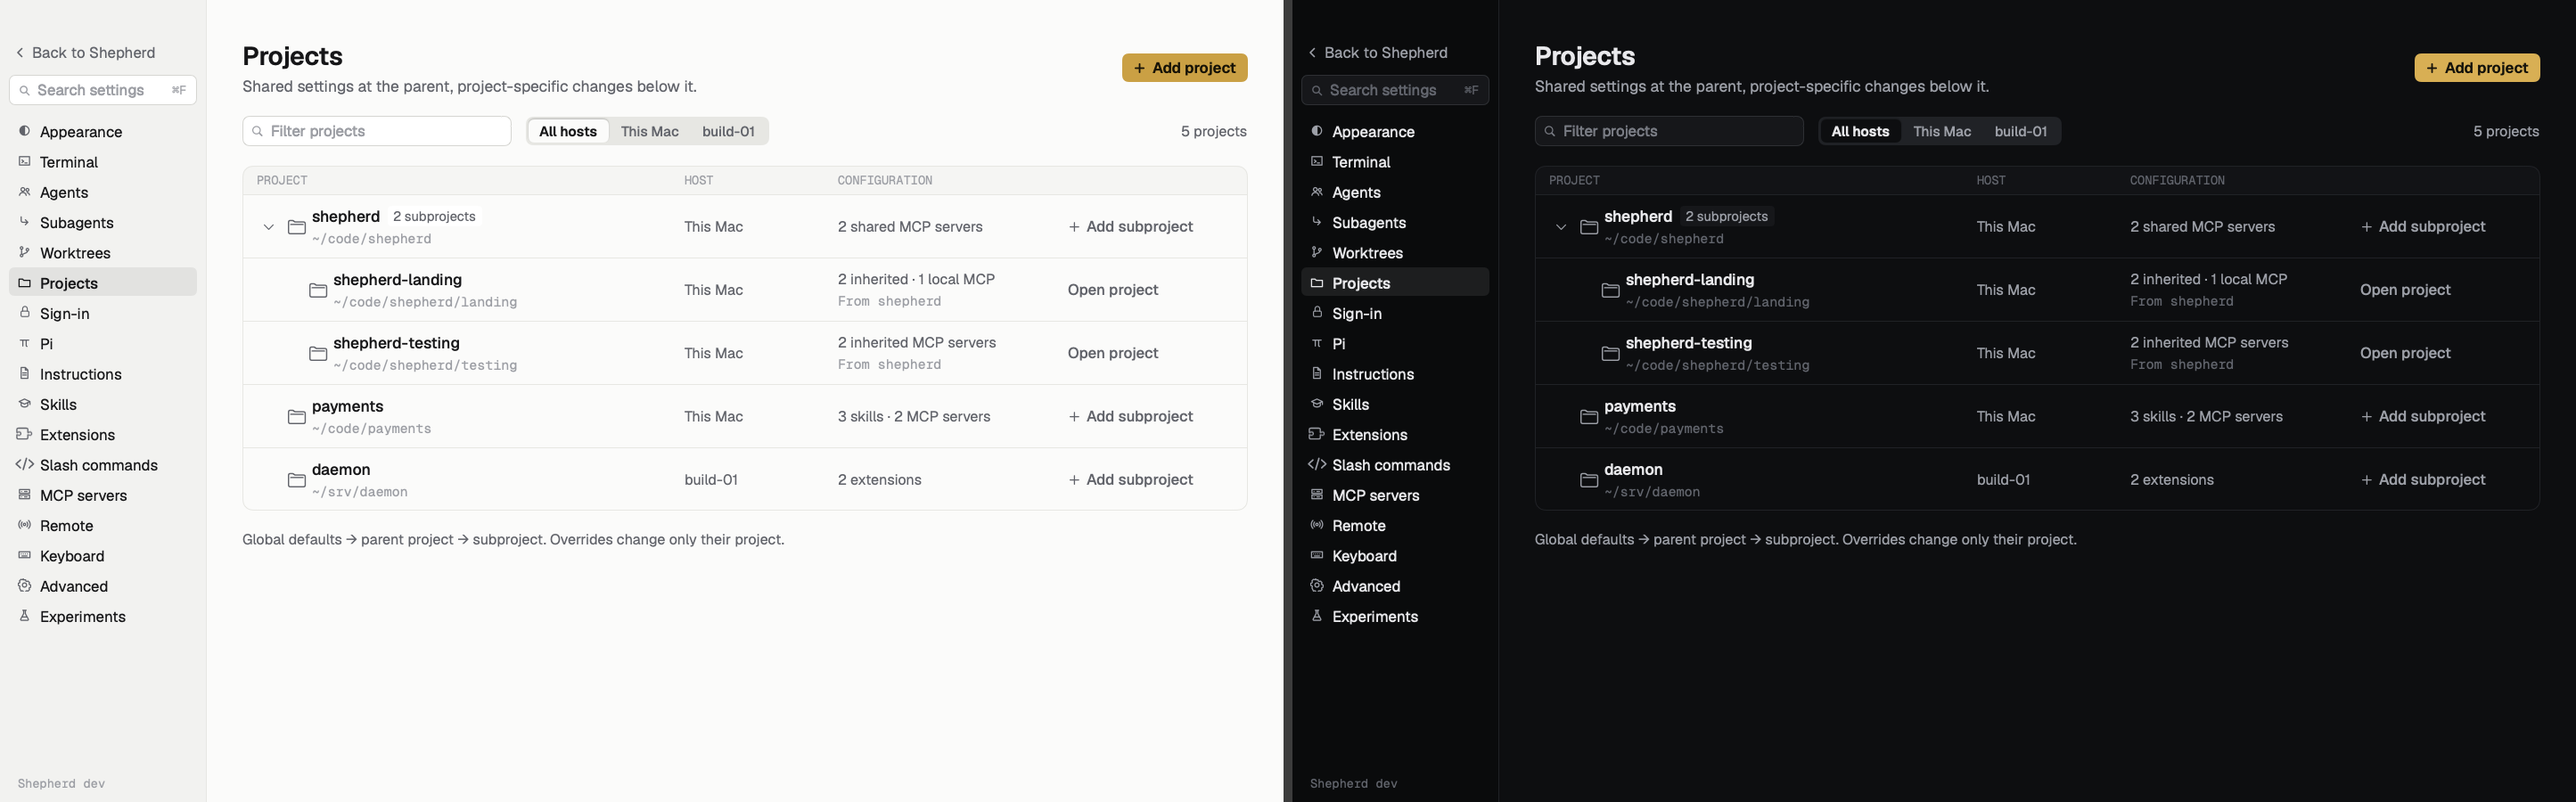
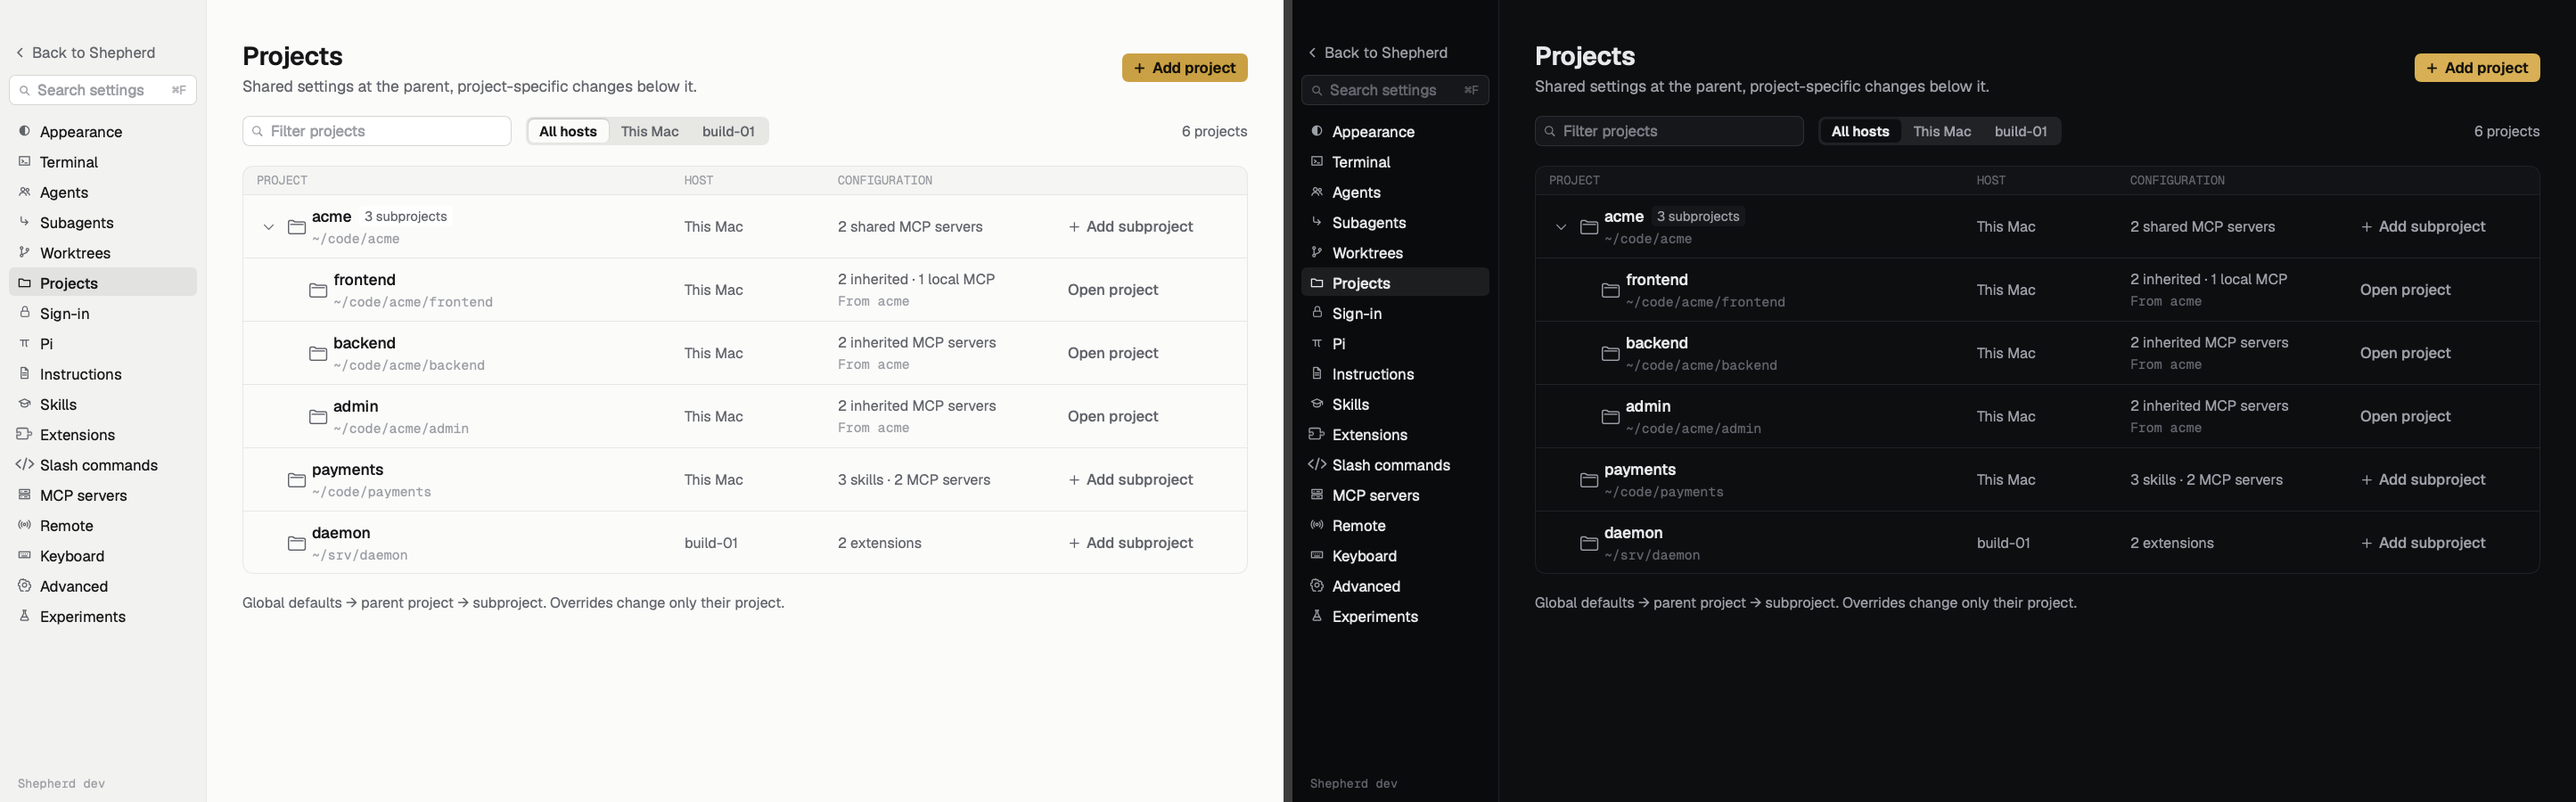
test: render subprojects as projects added inside acme's folder

diff --git a/Tests/ShepherdPreviewTests/ProjectsPreviewTests.swift b/Tests/ShepherdPreviewTests/ProjectsPreviewTests.swift
@@ -42,30 +42,33 @@ struct ProjectsPreviewTests {
         try await Preview.renderMatrix("projects-\(state)", size: size) { RootView(vm: world.vm) }
     }
 
-    /// The board's tree (SettingsProjects, parents and subprojects): shepherd with its two
-    /// subprojects inside its folder, which share its two MCP servers (one adds its own), then
-    /// payments, and the daemon on Build-01. Collapsed, shepherd folds its subprojects away.
+    /// The board's tree (SettingsProjects, parents and subprojects): acme with the three projects
+    /// added inside its folder (frontend, backend, admin), which share its two MCP servers (frontend
+    /// adds its own), then payments, and the daemon on Build-01. Collapsed, acme folds them away.
     @Test(arguments: ["tree", "tree-collapsed", "tree-filtered"])
     func subprojects(state: String) async throws {
         let world = try await ProjectsPreviewWorld(empty: true)
         defer { world.stop() }
         let home = URL(fileURLWithPath: world.local.server.pi.userHome)
         let code = home.appendingPathComponent("code")
-        let shepherd = code.appendingPathComponent("shepherd")
-        let landing = shepherd.appendingPathComponent("landing"), testing = shepherd.appendingPathComponent("testing")
+        let acme = code.appendingPathComponent("acme")
+        let frontend = acme.appendingPathComponent("frontend"), backend = acme.appendingPathComponent("backend")
+        let admin = acme.appendingPathComponent("admin")
         let payments = code.appendingPathComponent("payments")
         func write(_ folder: URL, _ relative: String, _ text: String) throws {
             let url = folder.appendingPathComponent(relative)
             try FileManager.default.createDirectory(at: url.deletingLastPathComponent(), withIntermediateDirectories: true)
             try Data(text.utf8).write(to: url)
         }
-        try write(shepherd, ".pi/mcp.json", #"{"mcpServers":{"linear":{},"sentry":{}}}"#)
-        try write(landing, ".pi/mcp.json", #"{"mcpServers":{"vercel":{}}}"#)
-        try write(testing, "AGENTS.md", "# Tests\n")
+        try write(acme, ".pi/mcp.json", #"{"mcpServers":{"linear":{},"sentry":{}}}"#)
+        try write(frontend, ".pi/mcp.json", #"{"mcpServers":{"vercel":{}}}"#)
+        try write(backend, "AGENTS.md", "# Backend\n")
+        try write(admin, "AGENTS.md", "# Admin\n")
         for skill in ["ledger", "refunds", "release"] { try write(payments, ".pi/skills/\(skill)/SKILL.md", "# \(skill)\n") }
         try write(payments, ".pi/mcp.json", #"{"mcpServers":{"stripe":{},"docs":{}}}"#)
-        let spaces = [Space(name: "shepherd", path: shepherd.path), Space(name: "shepherd-landing", path: landing.path),
-                      Space(name: "shepherd-testing", path: testing.path), Space(name: "payments", path: payments.path)]
+        let spaces = [Space(name: "acme", path: acme.path), Space(name: "frontend", path: frontend.path),
+                      Space(name: "backend", path: backend.path), Space(name: "admin", path: admin.path),
+                      Space(name: "payments", path: payments.path)]
         try await world.local.server.putState(ShepherdState(spaces: spaces))
         world.vm.adopt(world.local.server.state)
         let daemon = URL(fileURLWithPath: world.remote.server.pi.userHome).appendingPathComponent("srv/daemon")
@@ -74,10 +77,10 @@ struct ProjectsPreviewTests {
         try await eventuallyOnMain("the host's project") { world.vm.remoteHosts.connections.first?.state.spaces.count == 1 }
         await world.vm.projects.load(world.vm.projectsSources, force: true)
         let model = world.vm.projects
-        #expect(model.visible.map(\.project.name) == ["shepherd", "shepherd-landing", "shepherd-testing", "payments", "daemon"])
+        #expect(model.visible.map(\.project.name) == ["acme", "frontend", "backend", "admin", "payments", "daemon"])
         #expect(model.visible[1].configuration == "2 inherited · 1 local MCP")
         if state == "tree-collapsed" { model.collapsed = [model.visible[0].id] }
-        if state == "tree-filtered" { model.filter = "testing" }
+        if state == "tree-filtered" { model.filter = "front" }
         try await Preview.renderMatrix("projects-\(state)", size: CGSize(width: 1440, height: 900)) { RootView(vm: world.vm) }
     }
 
